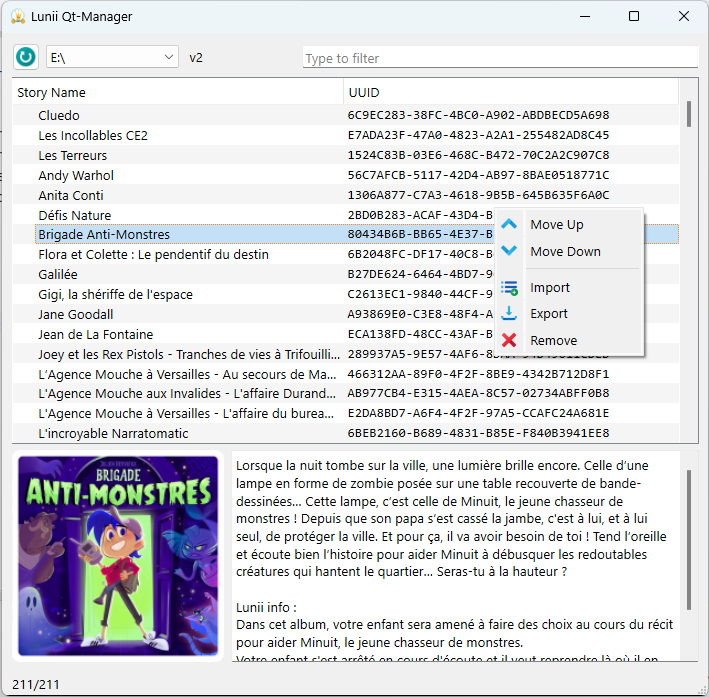
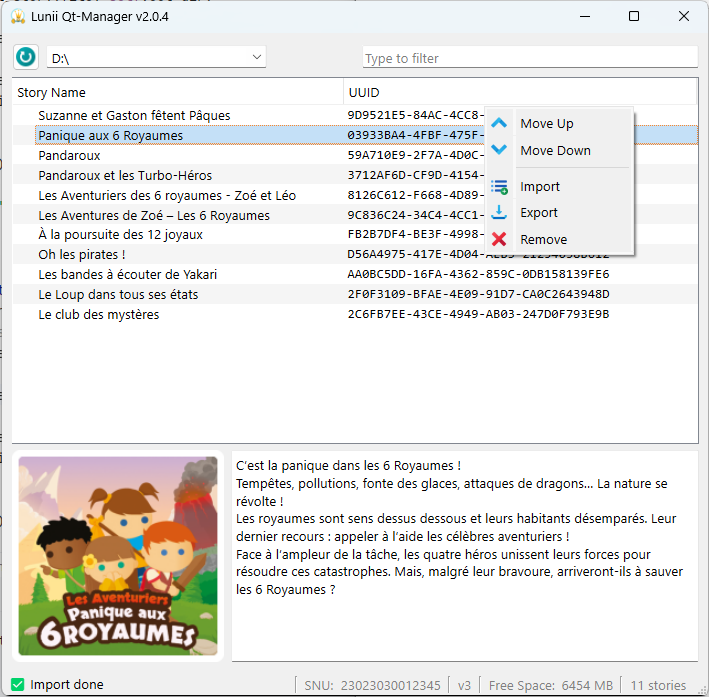
minor fixes + version in title

diff --git a/pkg/main_window.py b/pkg/main_window.py
@@ -34,6 +34,7 @@ DONE
 
 COL_NAME = 0
 COL_UUID = 1
+APP_VERSION = "v2.0.4"
 
 
 class VLine(QFrame):
@@ -64,6 +65,8 @@ class MainWindow(QMainWindow, Ui_MainWindow):
 
     # update ui elements state (enable, disable, context enu)
     def modify_widgets(self):
+        self.setWindowTitle(f"Lunii Qt-Manager {APP_VERSION}")
+
         # self.btn_abort.setVisible(False)
         # self.pgb_total.setVisible(False)
         self.tree_stories.setColumnWidth(0, 300)
@@ -226,11 +229,11 @@ class MainWindow(QMainWindow, Ui_MainWindow):
     def cb_dev_refresh(self):
         dev_list = find_devices()
         self.combo_device.clear()
+        self.lunii_device = None
 
         dev: WindowsPath
         self.combo_device.setPlaceholderText("Select your Lunii")
-        self.lbl_version.setText("")
-        self.statusbar.showMessage("")
+        self.sb_update("")
 
         for dev in dev_list:
             dev_name = str(dev)
@@ -345,10 +348,10 @@ class MainWindow(QMainWindow, Ui_MainWindow):
             self.tree_stories.addTopLevelItem(item)
 
     def sb_update(self, message):
-        self.lbl_snu.clear()
-        self.lbl_version.clear()
-        self.lbl_fs.clear()
-        self.lbl_count.clear()
+        self.lbl_snu.setText("")
+        self.lbl_version.setText("")
+        self.lbl_fs.setText("")
+        self.lbl_count.setText("")
         self.statusbar.showMessage(message)
 
         if not self.lunii_device:
@@ -356,6 +359,7 @@ class MainWindow(QMainWindow, Ui_MainWindow):
 
         # SNU
         self.lbl_snu.setText(self.lunii_device.snu.hex())
+        # self.lbl_snu.setText("23023030012345")
 
         # Version
         version = ""

diff --git a/pkg/ierWorker.py b/pkg/ierWorker.py
@@ -79,7 +79,7 @@ class ierWorker(QObject):
             # remove story contents from device
             res = self.lunii.remove_story(item)
             if res:
-                self.signal_message.emit(f"👍 Story removed: '{res}'")
+                self.signal_message.emit(f"👍 Story removed: '{item}'")
             else:
                 self.signal_message.emit(f"🛑 Failed to remove : '{item}'")
             self.signal_refresh.emit()

diff --git a/README.md b/README.md
@@ -3,7 +3,18 @@ A Python QT app to manage Lunii Storyteller (supporting v2 and v3)
 
 ![Main Window](./res/screenshot.png)
 
-### TODO
+## Shortcuts
+
+| Keys       | Actions                        |
+|------------|--------------------------------|
+| "Alt+Up"   | Move the selected item(s) Up   |
+| "Alt+Down" | Move the selected item(s) Down |
+| "Delete"   | Remove the selected item(s)    |
+| "Ctrl+S"   | Export the selection           |
+| "Ctrl+I"   | Import new story               |
+| "F5"       | Refresh devices                |
+
+## TODO
 * add button for official db refresh
 * ~~improve story move up/down~~
 * ~~save new story order on lunii~~
@@ -45,18 +56,6 @@ $ pyinstaller lunii-qt.spec
 ...
 $ dist\lunii-qt
 ```
-
-## Shortcuts
-
-| Keys       | Actions                        |
-|------------|--------------------------------|
-| "Alt+Up"   | Move the selected item(s) Up   |
-| "Alt+Down" | Move the selected item(s) Down |
-| "Delete"   | Remove the selected item(s)    |
-| "Ctrl+S"   | Export the selection           |
-| "Ctrl+I"   | Import new story               |
-| "F5"       | Refresh devices                |
-
 
 ## Trick
 ### Cache management
